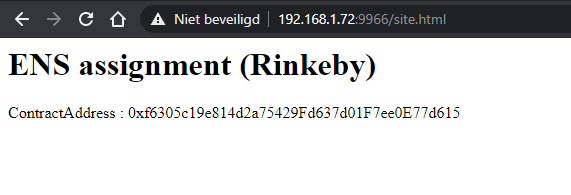
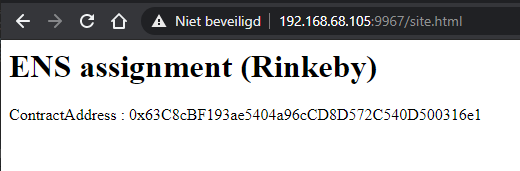
fixed to correct address

Changed region(s): [[0.0, 0.0585, 1.0, 0.2339], [0.0, 0.2632, 0.7385, 0.4971], [0.0, 0.5263, 0.9231, 0.7018]]

diff --git a/PD-14/sitewithENS/site.html b/PD-14/sitewithENS/site.html
@@ -19,11 +19,9 @@
         async function f() {
             web3 = new Web3(Web3.givenProvider); // provider from metamask
             var acts = await web3.eth.getAccounts();
-            var ENS = web3.eth.ens.getResolver('contractaddress.schoolassignmentaron.eth').then(function (contract) {
-                console.log(contract._address);
-                contract = contract._address;
-                document.getElementById("address").innerHTML = 'ContractAddress : ' + contract;
-            });;
+            var ENS = await web3.eth.ens.getAddress('contractaddress.schoolassignmentaron.eth');
+            document.getElementById("address").innerHTML = 'ContractAddress : ' + ENS;
+
             const SimpleContractABI = [
                 {
                     "anonymous": false,
